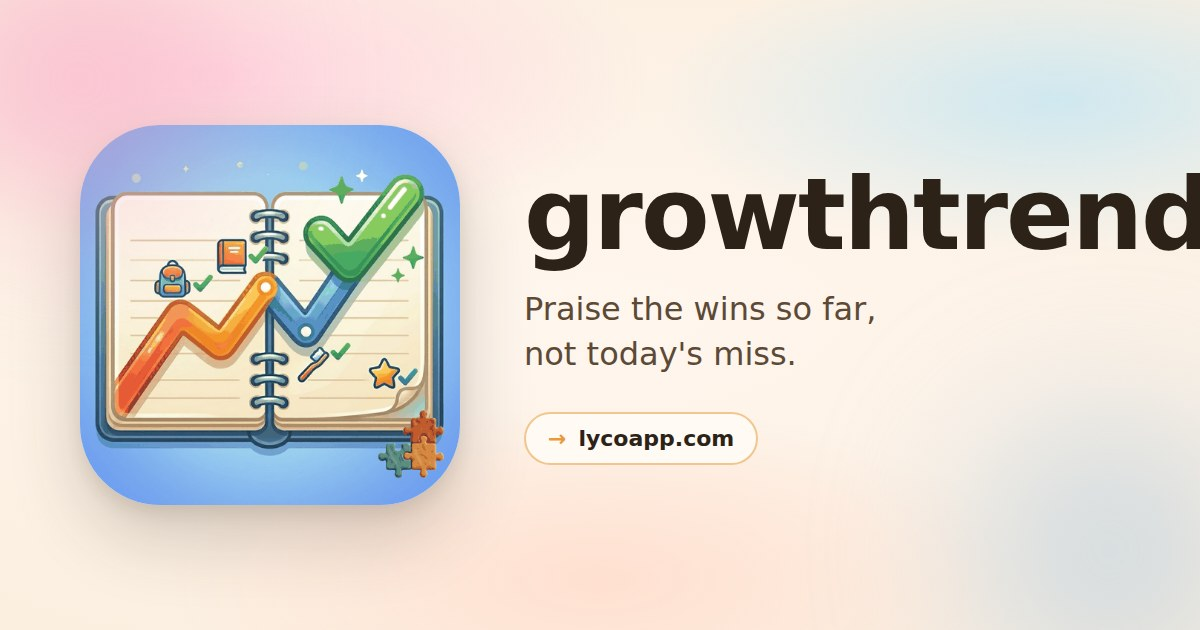
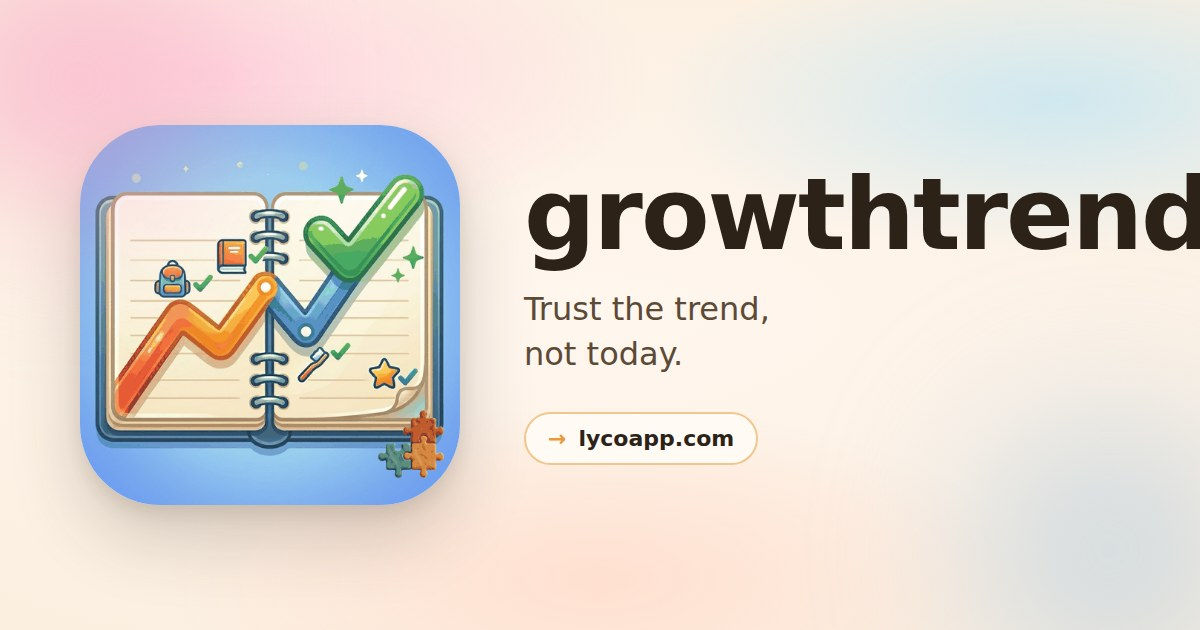
Deploy LP prod from work_space@3418e14

Changed region(s): [[0.4317, 0.4524, 0.74, 0.5127], [0.555, 0.5429, 0.6475, 0.6032]]

diff --git a/growthtrend/index.html b/growthtrend/index.html
@@ -4,20 +4,20 @@
 <meta charset="utf-8" />
 <title>growthtrend</title>
 <meta name="viewport" content="width=device-width, initial-scale=1, viewport-fit=cover" />
-<meta name="description" content="Praise the wins so far, not today's miss." />
+<meta name="description" content="Trust the trend, not today." />
 <meta name="theme-color" content="#FFE4E1" media="(prefers-color-scheme: light)" />
 <meta name="theme-color" content="#2C2218" media="(prefers-color-scheme: dark)" />
 <link rel="canonical" href="https://lycoapp.com/growthtrend/" />
 <!-- Open Graph / Twitter -->
 <meta property="og:type" content="website" />
 <meta property="og:title" content="growthtrend" />
-<meta property="og:description" content="Praise the wins so far, not today's miss." />
+<meta property="og:description" content="Trust the trend, not today." />
 <meta property="og:url" content="https://lycoapp.com/growthtrend/" />
 <meta property="og:image" content="https://lycoapp.com/growthtrend/ogp.jpg" />
 <meta property="og:site_name" content="Lyco App" />
 <meta name="twitter:card" content="summary_large_image" />
 <meta name="twitter:title" content="growthtrend" />
-<meta name="twitter:description" content="Praise the wins so far, not today's miss." />
+<meta name="twitter:description" content="Trust the trend, not today." />
 <meta name="twitter:image" content="https://lycoapp.com/growthtrend/ogp.jpg" />
 <link rel="icon" type="image/png" sizes="32x32" href="/favicon-32.png" />
 <link rel="icon" type="image/png" sizes="192x192" href="/favicon-192.png" />
@@ -199,7 +199,7 @@
   <main class="card">
     <img class="icon" src="icon.png" width="156" height="156" alt="growthtrend app icon" />
     <h1>growthtrend</h1>
-    <p class="tagline">Praise the wins so far, not today's miss.</p>
+    <p class="tagline">Trust the trend, not today.</p>
 
     <div class="stores">
       <a class="store-btn store-btn--apple" href="https://apps.apple.com/app/id6782609505" target="_blank" rel="noopener" aria-label="Download growthtrend on the App Store">
